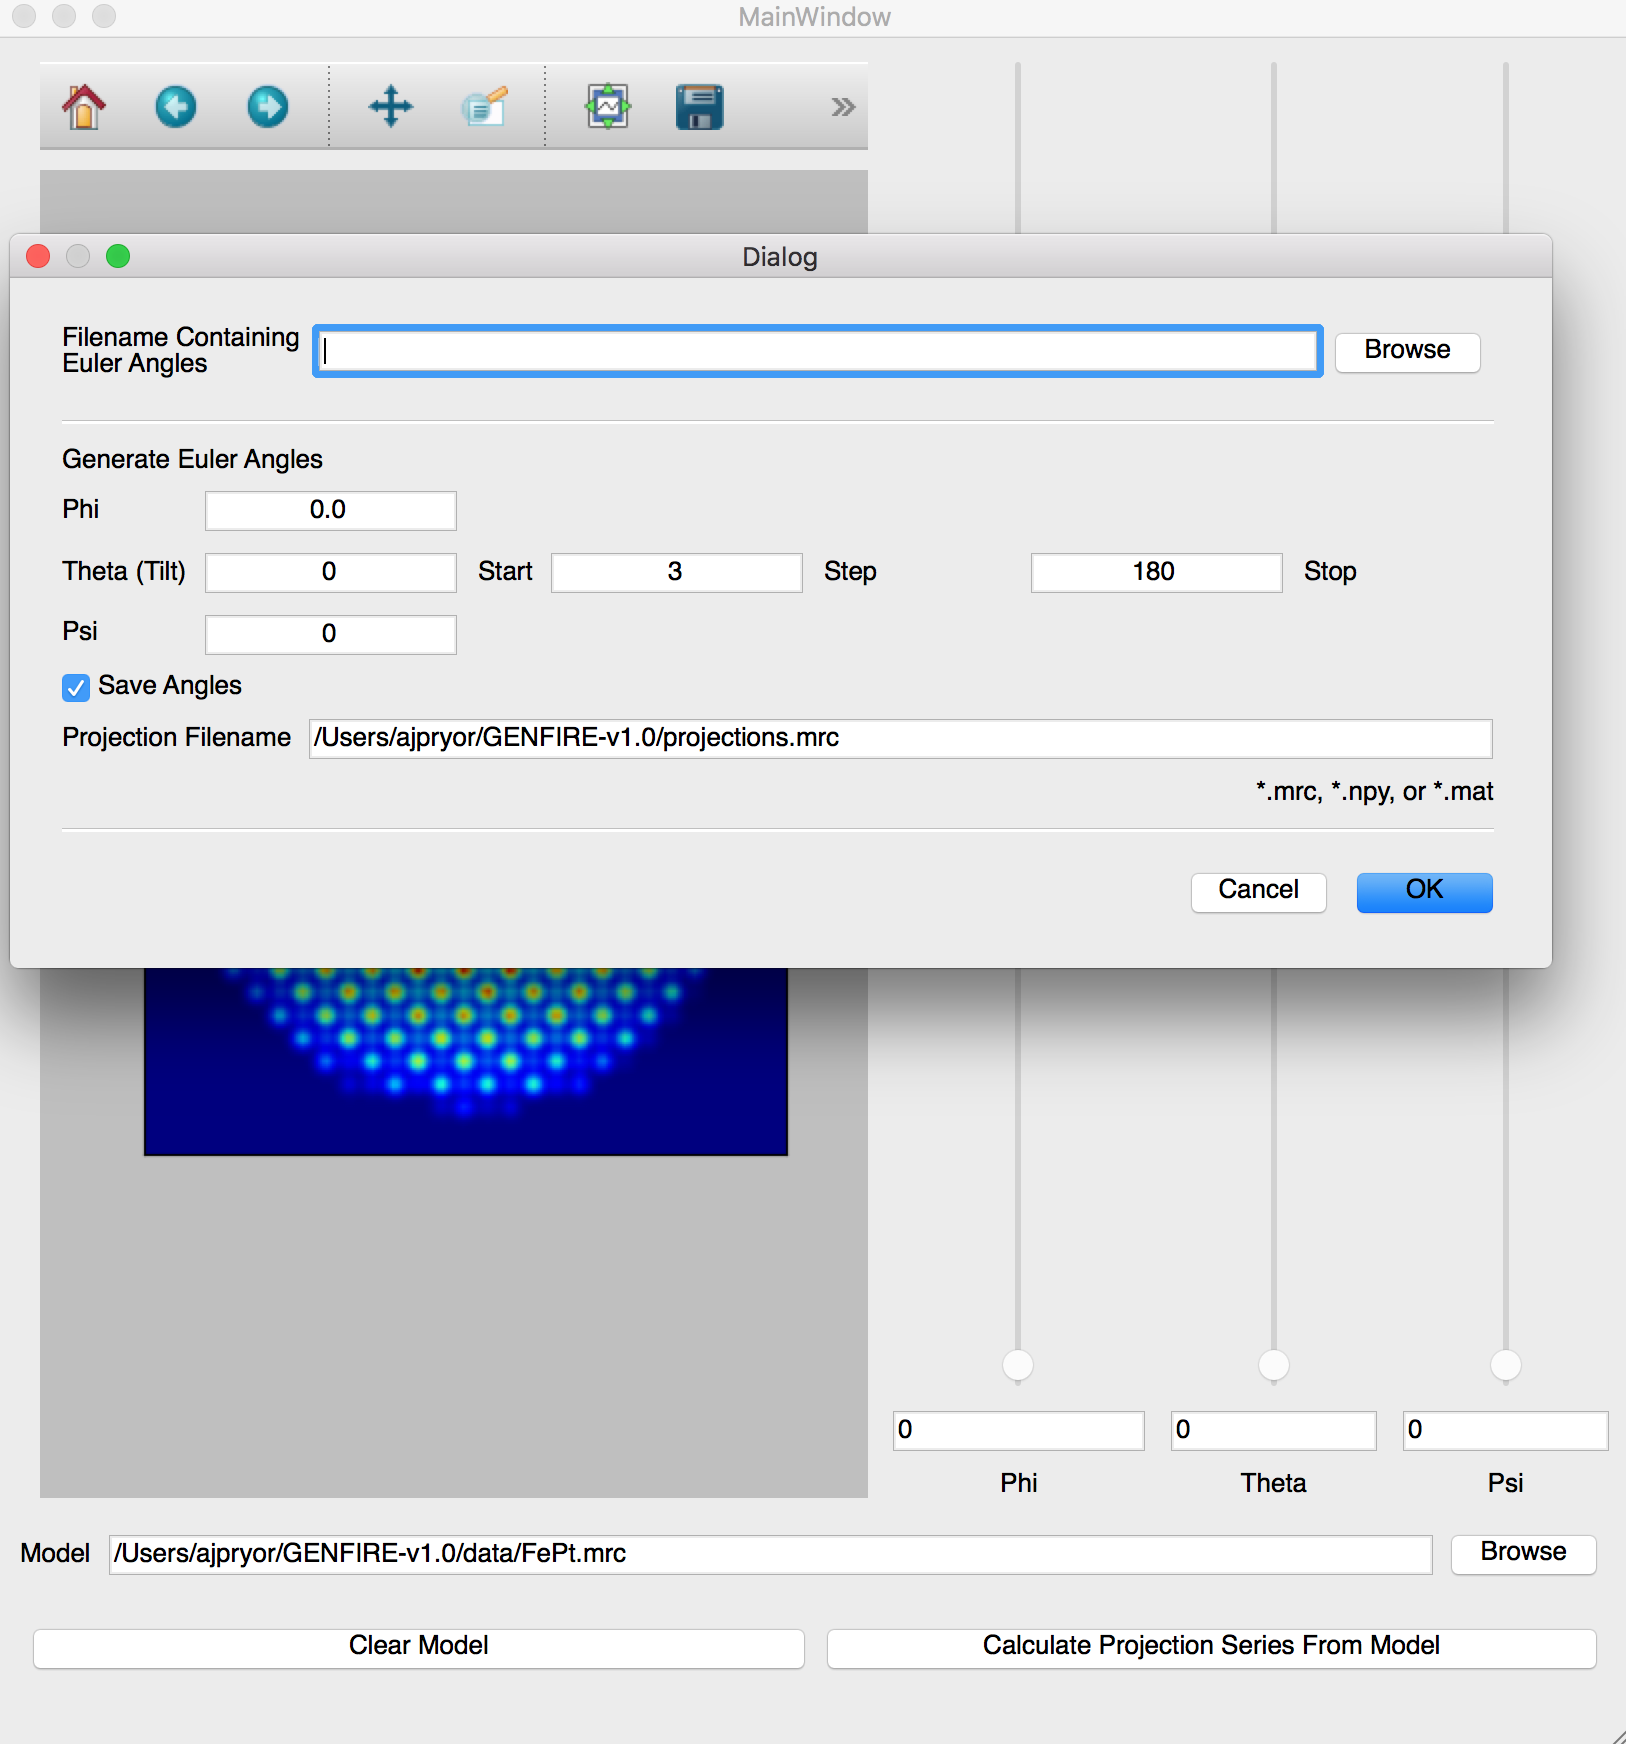
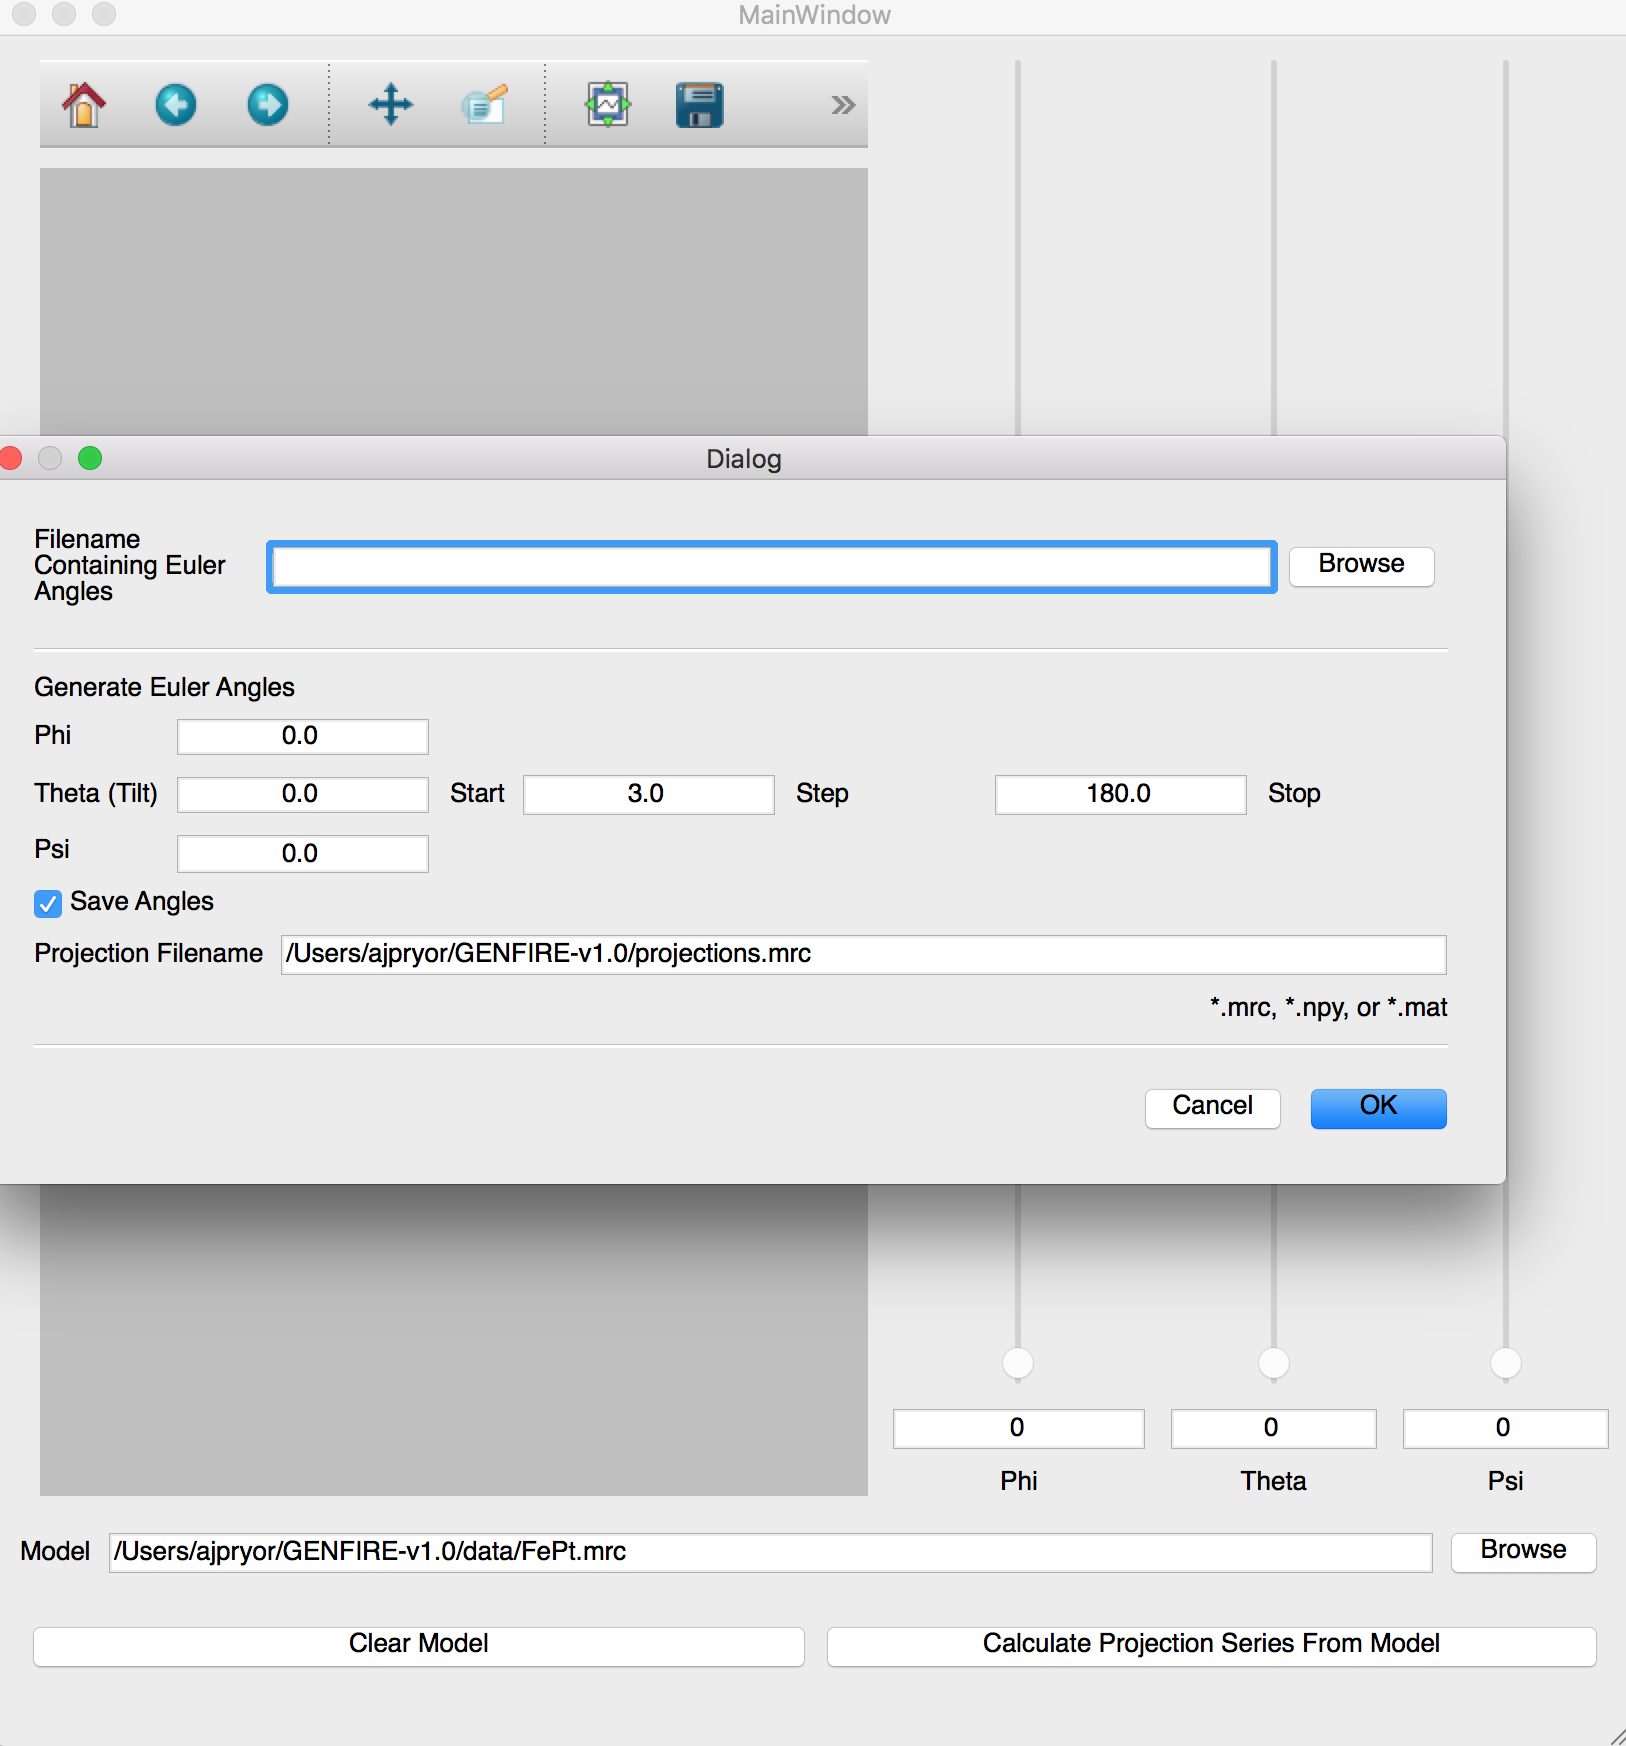
fixed bug in layout of projection calculator popup
Former-commit-id: ce91806fe33c340db74a881068efef2c51a6b7a2
Former-commit-id: 9127e28c90a5263d1a5fdffed3748fa6b41a4273

diff --git a/GENFIRE/gui/CalculateProjectionSeries_Dialog.py b/GENFIRE/gui/CalculateProjectionSeries_Dialog.py
@@ -25,14 +25,14 @@ except AttributeError:
 class Ui_CalculateProjectionSeries_Dialog(object):
     def setupUi(self, CalculateProjectionSeries_Dialog):
         CalculateProjectionSeries_Dialog.setObjectName(_fromUtf8("CalculateProjectionSeries_Dialog"))
-        CalculateProjectionSeries_Dialog.resize(762, 352)
+        CalculateProjectionSeries_Dialog.resize(762, 368)
         sizePolicy = QtGui.QSizePolicy(QtGui.QSizePolicy.Minimum, QtGui.QSizePolicy.Minimum)
         sizePolicy.setHorizontalStretch(0)
         sizePolicy.setVerticalStretch(0)
         sizePolicy.setHeightForWidth(CalculateProjectionSeries_Dialog.sizePolicy().hasHeightForWidth())
         CalculateProjectionSeries_Dialog.setSizePolicy(sizePolicy)
-        self.verticalLayout_9 = QtGui.QVBoxLayout(CalculateProjectionSeries_Dialog)
-        self.verticalLayout_9.setObjectName(_fromUtf8("verticalLayout_9"))
+        self.horizontalLayout_9 = QtGui.QHBoxLayout(CalculateProjectionSeries_Dialog)
+        self.horizontalLayout_9.setObjectName(_fromUtf8("horizontalLayout_9"))
         self.verticalLayout_2 = QtGui.QVBoxLayout()
         self.verticalLayout_2.setObjectName(_fromUtf8("verticalLayout_2"))
         self.verticalLayout_8 = QtGui.QVBoxLayout()
@@ -73,6 +73,10 @@ class Ui_CalculateProjectionSeries_Dialog(object):
         self.label_8.setObjectName(_fromUtf8("label_8"))
         self.verticalLayout_5.addWidget(self.label_8)
         self.horizontalLayout_4.addLayout(self.verticalLayout_5)
+        self.horizontalLayout = QtGui.QHBoxLayout()
+        self.horizontalLayout.setObjectName(_fromUtf8("horizontalLayout"))
+        self.horizontalLayout_8 = QtGui.QHBoxLayout()
+        self.horizontalLayout_8.setObjectName(_fromUtf8("horizontalLayout_8"))
         self.verticalLayout_6 = QtGui.QVBoxLayout()
         self.verticalLayout_6.setObjectName(_fromUtf8("verticalLayout_6"))
         self.lineEdit_phi = QtGui.QLineEdit(CalculateProjectionSeries_Dialog)
@@ -110,18 +114,17 @@ class Ui_CalculateProjectionSeries_Dialog(object):
         self.lineEdit_psi.setAlignment(QtCore.Qt.AlignCenter)
         self.lineEdit_psi.setObjectName(_fromUtf8("lineEdit_psi"))
         self.verticalLayout_6.addWidget(self.lineEdit_psi)
-        self.horizontalLayout_4.addLayout(self.verticalLayout_6)
+        self.horizontalLayout_8.addLayout(self.verticalLayout_6)
         self.label_4 = QtGui.QLabel(CalculateProjectionSeries_Dialog)
         self.label_4.setObjectName(_fromUtf8("label_4"))
-        self.horizontalLayout_4.addWidget(self.label_4)
-        self.verticalLayout_7 = QtGui.QVBoxLayout()
-        self.verticalLayout_7.setObjectName(_fromUtf8("verticalLayout_7"))
+        self.horizontalLayout_8.addWidget(self.label_4)
+        self.horizontalLayout.addLayout(self.horizontalLayout_8)
+        self.verticalLayout_9 = QtGui.QVBoxLayout()
+        self.verticalLayout_9.setObjectName(_fromUtf8("verticalLayout_9"))
         spacerItem = QtGui.QSpacerItem(40, 20, QtGui.QSizePolicy.Expanding, QtGui.QSizePolicy.Minimum)
-        self.verticalLayout_7.addItem(spacerItem)
-        self.horizontalLayout = QtGui.QHBoxLayout()
-        self.horizontalLayout.setObjectName(_fromUtf8("horizontalLayout"))
-        self.verticalLayout_3 = QtGui.QVBoxLayout()
-        self.verticalLayout_3.setObjectName(_fromUtf8("verticalLayout_3"))
+        self.verticalLayout_9.addItem(spacerItem)
+        self.horizontalLayout_5 = QtGui.QHBoxLayout()
+        self.horizontalLayout_5.setObjectName(_fromUtf8("horizontalLayout_5"))
         self.lineEdit_thetaStep = QtGui.QLineEdit(CalculateProjectionSeries_Dialog)
         sizePolicy = QtGui.QSizePolicy(QtGui.QSizePolicy.Fixed, QtGui.QSizePolicy.Fixed)
         sizePolicy.setHorizontalStretch(0)
@@ -131,13 +134,20 @@ class Ui_CalculateProjectionSeries_Dialog(object):
         self.lineEdit_thetaStep.setMaxLength(6)
         self.lineEdit_thetaStep.setAlignment(QtCore.Qt.AlignCenter)
         self.lineEdit_thetaStep.setObjectName(_fromUtf8("lineEdit_thetaStep"))
-        self.verticalLayout_3.addWidget(self.lineEdit_thetaStep)
-        self.horizontalLayout.addLayout(self.verticalLayout_3)
+        self.horizontalLayout_5.addWidget(self.lineEdit_thetaStep)
         self.label_5 = QtGui.QLabel(CalculateProjectionSeries_Dialog)
         self.label_5.setObjectName(_fromUtf8("label_5"))
-        self.horizontalLayout.addWidget(self.label_5)
-        self.verticalLayout_4 = QtGui.QVBoxLayout()
-        self.verticalLayout_4.setObjectName(_fromUtf8("verticalLayout_4"))
+        self.horizontalLayout_5.addWidget(self.label_5)
+        self.verticalLayout_9.addLayout(self.horizontalLayout_5)
+        spacerItem1 = QtGui.QSpacerItem(40, 20, QtGui.QSizePolicy.Expanding, QtGui.QSizePolicy.Minimum)
+        self.verticalLayout_9.addItem(spacerItem1)
+        self.horizontalLayout.addLayout(self.verticalLayout_9)
+        self.verticalLayout_10 = QtGui.QVBoxLayout()
+        self.verticalLayout_10.setObjectName(_fromUtf8("verticalLayout_10"))
+        spacerItem2 = QtGui.QSpacerItem(40, 20, QtGui.QSizePolicy.Expanding, QtGui.QSizePolicy.Minimum)
+        self.verticalLayout_10.addItem(spacerItem2)
+        self.horizontalLayout_7 = QtGui.QHBoxLayout()
+        self.horizontalLayout_7.setObjectName(_fromUtf8("horizontalLayout_7"))
         self.lineEdit_thetaStop = QtGui.QLineEdit(CalculateProjectionSeries_Dialog)
         sizePolicy = QtGui.QSizePolicy(QtGui.QSizePolicy.Fixed, QtGui.QSizePolicy.Fixed)
         sizePolicy.setHorizontalStretch(0)
@@ -147,15 +157,15 @@ class Ui_CalculateProjectionSeries_Dialog(object):
         self.lineEdit_thetaStop.setMaxLength(6)
         self.lineEdit_thetaStop.setAlignment(QtCore.Qt.AlignCenter)
         self.lineEdit_thetaStop.setObjectName(_fromUtf8("lineEdit_thetaStop"))
-        self.verticalLayout_4.addWidget(self.lineEdit_thetaStop)
-        self.horizontalLayout.addLayout(self.verticalLayout_4)
+        self.horizontalLayout_7.addWidget(self.lineEdit_thetaStop)
         self.label_6 = QtGui.QLabel(CalculateProjectionSeries_Dialog)
         self.label_6.setObjectName(_fromUtf8("label_6"))
-        self.horizontalLayout.addWidget(self.label_6)
-        self.verticalLayout_7.addLayout(self.horizontalLayout)
-        spacerItem1 = QtGui.QSpacerItem(40, 20, QtGui.QSizePolicy.Expanding, QtGui.QSizePolicy.Minimum)
-        self.verticalLayout_7.addItem(spacerItem1)
-        self.horizontalLayout_4.addLayout(self.verticalLayout_7)
+        self.horizontalLayout_7.addWidget(self.label_6)
+        self.verticalLayout_10.addLayout(self.horizontalLayout_7)
+        spacerItem3 = QtGui.QSpacerItem(40, 20, QtGui.QSizePolicy.Expanding, QtGui.QSizePolicy.Minimum)
+        self.verticalLayout_10.addItem(spacerItem3)
+        self.horizontalLayout.addLayout(self.verticalLayout_10)
+        self.horizontalLayout_4.addLayout(self.horizontalLayout)
         self.verticalLayout_8.addLayout(self.horizontalLayout_4)
         self.checkBox_saveAngles = QtGui.QCheckBox(CalculateProjectionSeries_Dialog)
         self.checkBox_saveAngles.setObjectName(_fromUtf8("checkBox_saveAngles"))
@@ -175,6 +185,9 @@ class Ui_CalculateProjectionSeries_Dialog(object):
         self.lineEdit_outputFilename.setObjectName(_fromUtf8("lineEdit_outputFilename"))
         self.horizontalLayout_6.addWidget(self.lineEdit_outputFilename)
         self.verticalLayout_8.addLayout(self.horizontalLayout_6)
+        self.horizontalLayout_3 = QtGui.QHBoxLayout()
+        self.horizontalLayout_3.setObjectName(_fromUtf8("horizontalLayout_3"))
+        self.verticalLayout_8.addLayout(self.horizontalLayout_3)
         self.label_10 = QtGui.QLabel(CalculateProjectionSeries_Dialog)
         self.label_10.setAlignment(QtCore.Qt.AlignRight|QtCore.Qt.AlignTrailing|QtCore.Qt.AlignVCenter)
         self.label_10.setObjectName(_fromUtf8("label_10"))
@@ -190,7 +203,7 @@ class Ui_CalculateProjectionSeries_Dialog(object):
         self.buttonBox.setObjectName(_fromUtf8("buttonBox"))
         self.verticalLayout_8.addWidget(self.buttonBox)
         self.verticalLayout_2.addLayout(self.verticalLayout_8)
-        self.verticalLayout_9.addLayout(self.verticalLayout_2)
+        self.horizontalLayout_9.addLayout(self.verticalLayout_2)
 
         self.retranslateUi(CalculateProjectionSeries_Dialog)
         QtCore.QObject.connect(self.buttonBox, QtCore.SIGNAL(_fromUtf8("accepted()")), CalculateProjectionSeries_Dialog.accept)
@@ -199,9 +212,7 @@ class Ui_CalculateProjectionSeries_Dialog(object):
         CalculateProjectionSeries_Dialog.setTabOrder(self.lineEdit_angleFile, self.btn_selectAngleFile)
         CalculateProjectionSeries_Dialog.setTabOrder(self.btn_selectAngleFile, self.lineEdit_phi)
         CalculateProjectionSeries_Dialog.setTabOrder(self.lineEdit_phi, self.lineEdit_thetaStart)
-        CalculateProjectionSeries_Dialog.setTabOrder(self.lineEdit_thetaStart, self.lineEdit_thetaStep)
-        CalculateProjectionSeries_Dialog.setTabOrder(self.lineEdit_thetaStep, self.lineEdit_thetaStop)
-        CalculateProjectionSeries_Dialog.setTabOrder(self.lineEdit_thetaStop, self.lineEdit_psi)
+        CalculateProjectionSeries_Dialog.setTabOrder(self.lineEdit_thetaStart, self.lineEdit_psi)
         CalculateProjectionSeries_Dialog.setTabOrder(self.lineEdit_psi, self.lineEdit_outputFilename)
 
     def retranslateUi(self, CalculateProjectionSeries_Dialog):
